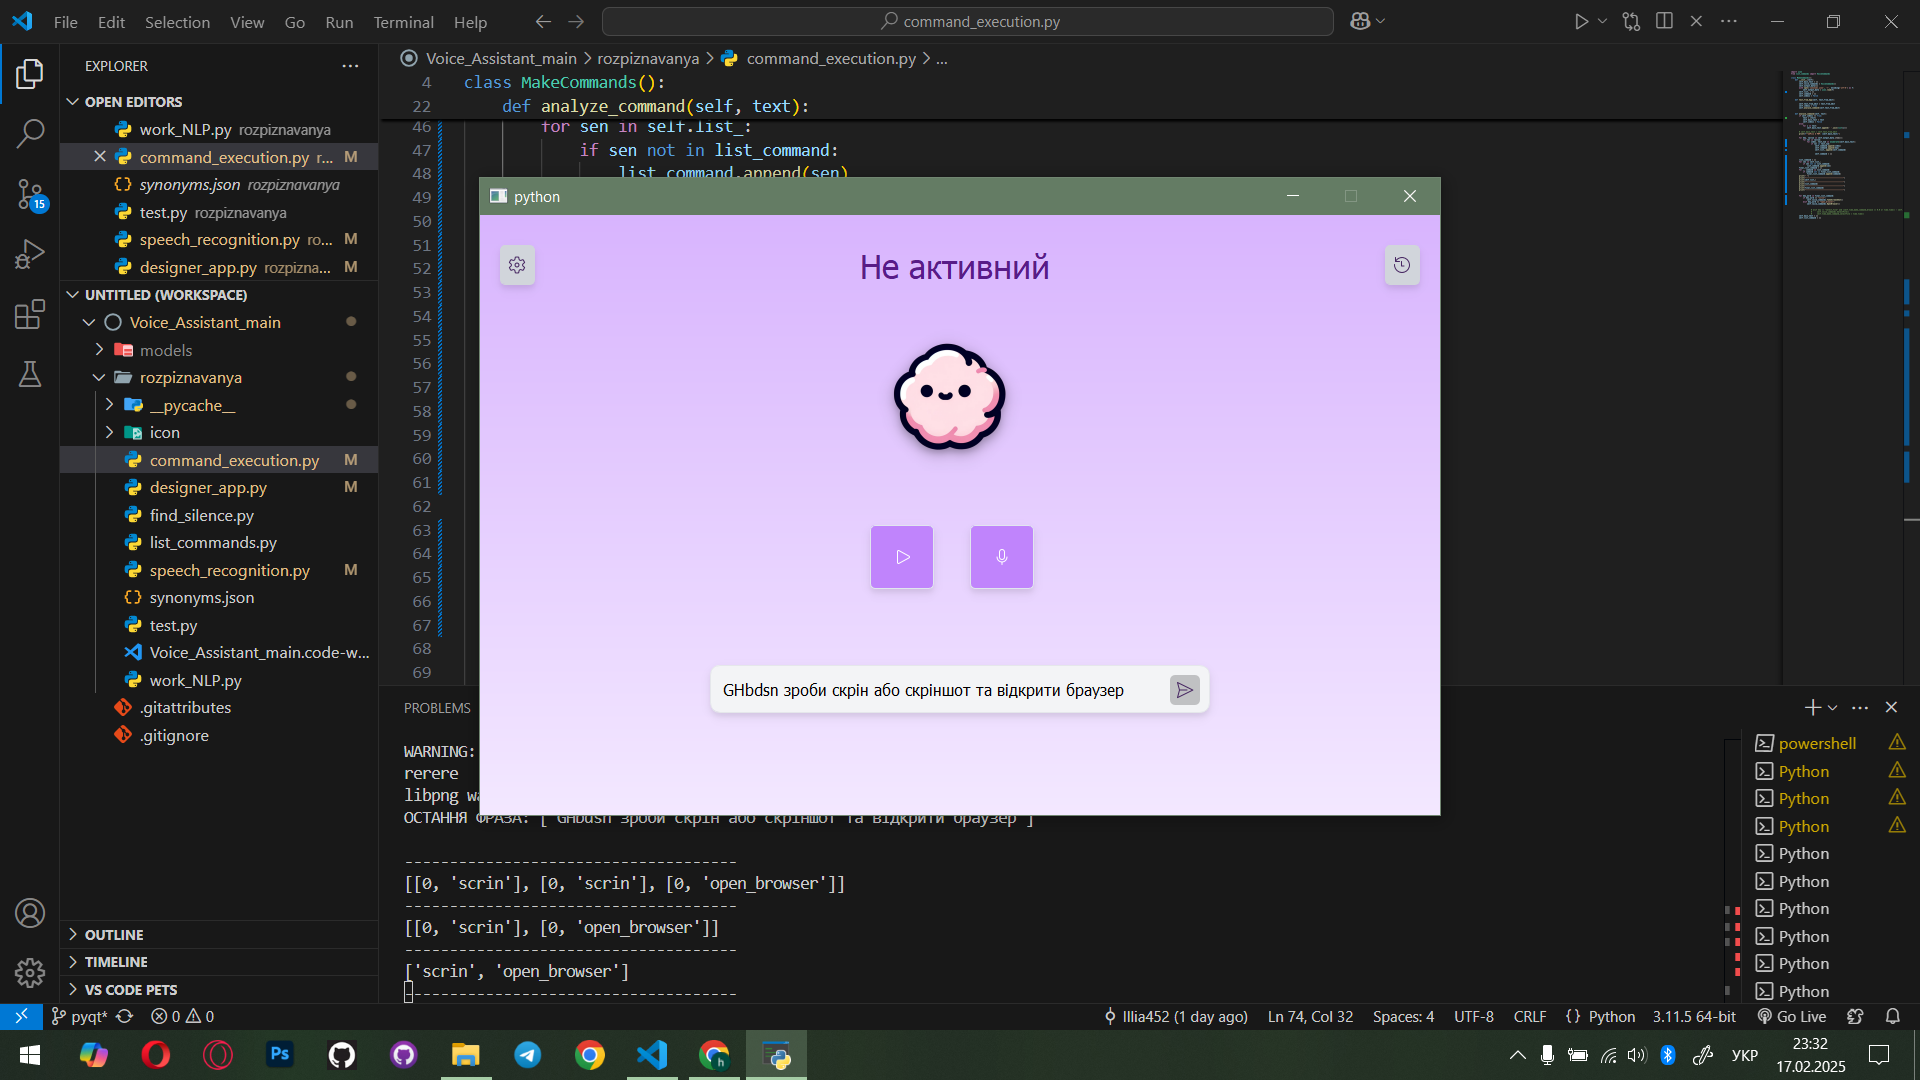
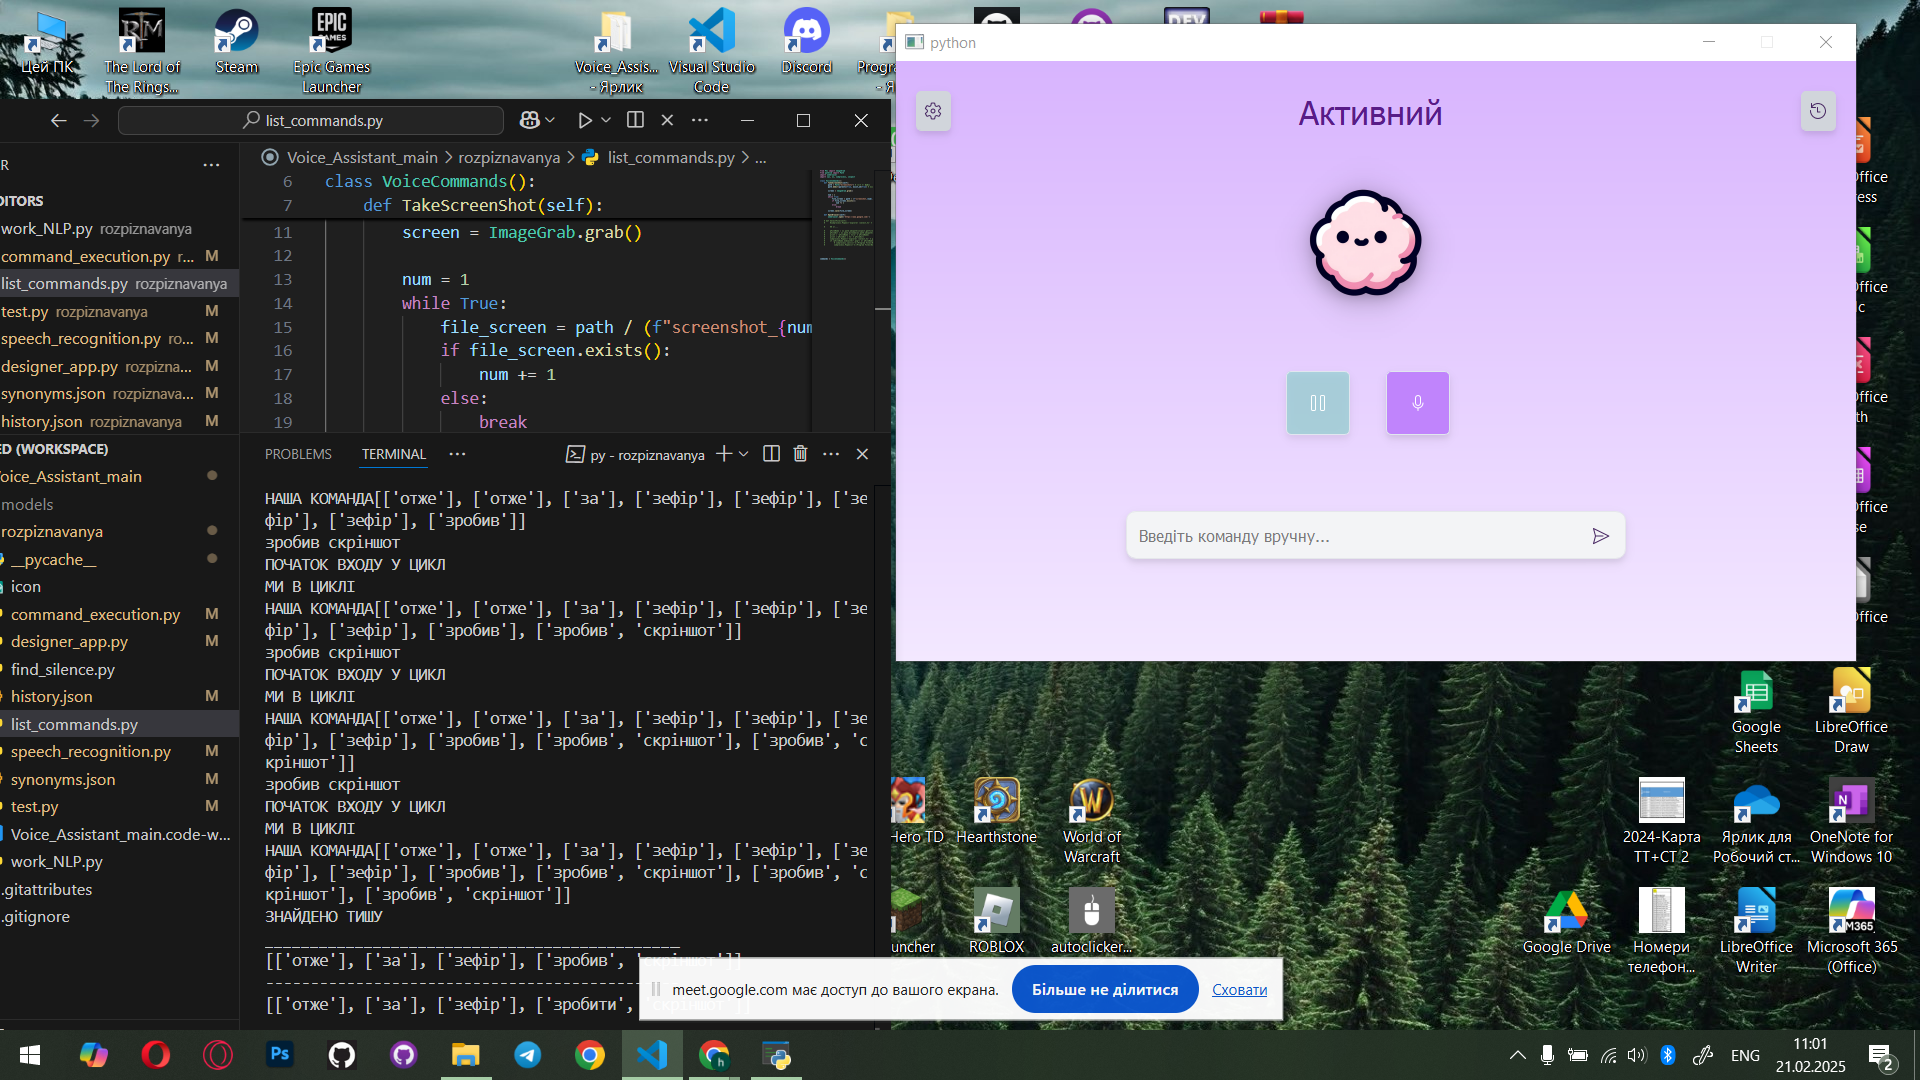
Added last working version

diff --git a/rozpiznavanya/designer_app.py b/rozpiznavanya/designer_app.py
@@ -12,15 +12,23 @@ from PyQt5 import QtCore, QtGui, QtWidgets
 import sys
 from PyQt5.QtGui import QColor, QFont
 from PyQt5.QtWidgets import QGraphicsDropShadowEffect
-from PyQt5.QtCore import Qt
+from PyQt5.QtCore import Qt, QTimer
 from PyQt5.QtSvg import QSvgWidget
 from PyQt5.QtGui import QPixmap
 import threading
+import json
+
 
 class Ui_MainWindow(QMainWindow):
     def __init__(self, speech_recognition):
         super().__init__()
         self.speech_recognition = speech_recognition
+        self.history_data = []
+        self.len_write_history = []
+        self.write_history = []
+        self.last_history_size = 0
+        with open('history.json', 'r', encoding='utf-8') as f:
+            self.history_data = json.load(f)
         # self.speech_recognition.textToDoCommand(text)
         self.setupUi()
 
@@ -177,7 +185,7 @@ class Ui_MainWindow(QMainWindow):
         self.image_label.setPixmap(pixmap)  # Встановлюємо зображення в QLabel
         self.image_label.setAlignment(Qt.AlignCenter)
         shadow_i = QGraphicsDropShadowEffect()
-        shadow_i.setBlurRadius(25)  # Розмиття
+        shadow_i.setBlurRadius(50)  # Розмиття
         shadow_i.setOffset(0, 4)  # Зміщення тіні (по X та Y)
         shadow_i.setColor(QColor(0, 0, 0, 100))  # Колір тіні (чорний з прозорістю)
         self.image_label.setGraphicsEffect(shadow_i)
@@ -308,7 +316,7 @@ class Ui_MainWindow(QMainWindow):
 
         # ВІКНО ІСТОРІЇ
         self.his_window = QtWidgets.QWidget(self.centralwidget)
-        self.his_window.setGeometry(QtCore.QRect(710, 120, 220, 450))
+        self.his_window.setGeometry(QtCore.QRect(685, 120, 245, 450))
         self.his_window # Виводимо віджет на передній план
         # self.his_window.raise_()
         self.his_window.setStyleSheet("""
@@ -334,22 +342,18 @@ class Ui_MainWindow(QMainWindow):
         self.text_his.setAlignment(Qt.AlignCenter)
 
         self.scroll_area = QtWidgets.QScrollArea(self.his_window)
-        self.scroll_area.setGeometry(10, 45, 200, 395)  
+        self.scroll_area.setGeometry(10, 45, 225, 395)  
         self.scroll_area.setWidgetResizable(True) 
 
         self.scroll_content = QtWidgets.QWidget()
         self.scroll_layout = QtWidgets.QVBoxLayout(self.scroll_content)  # Вертикальний Layout
 
-        # Додаємо багато елементів (імітація історії)
-        for i in range(20):
-            label = QtWidgets.QLabel(f"Історія {i+1}")
-            self.scroll_layout.addWidget(label)
+        
 
-        self.scroll_area.setWidget(self.scroll_content)
 
        
         
-    
+
 
 
 
@@ -418,7 +422,9 @@ class Ui_MainWindow(QMainWindow):
 
 
 
-
+        self.timer = QTimer(self)
+        self.timer.timeout.connect(self.check_history)  # Підключення функції до сигналу
+        self.timer.start(2000) 
 
 
     
@@ -437,9 +443,43 @@ class Ui_MainWindow(QMainWindow):
         # self.retranslateUi()
         # QtCore.QMetaObject.connectSlotsByName(self.MainWindow)
 
-    
+    def check_history(self):
 
+        with open('history.json', 'r', encoding='utf-8') as f:
+            self.history_data = json.load(f)
+        for key, vallue in self.history_data.items():
+            len_history_json = len(vallue)
 
+            self.len_write_history = len(self.write_history)
+
+            if len_history_json > self.len_write_history:
+
+                self.write_history = vallue
+        
+        
+
+                history_list = self.write_history[::-1]
+
+                for i in reversed(range(self.scroll_layout.count())): 
+                    self.scroll_layout.itemAt(i).widget().setParent(None)
+
+                for val in history_list:
+                    part_his_win = QtWidgets.QLabel()
+                    part_his_win.setStyleSheet("""
+                        QWidget {
+                            background-color: #d1d5db;
+                            border-radius: 10px;
+                            border: 1px solid #d1d5db;
+                        }
+                    """)
+                    label = QtWidgets.QLabel(f"Команда {val[0]}", part_his_win)
+                    label2 = QtWidgets.QLabel(f"Час {val[1]}", part_his_win)
+                    self.scroll_layout.addWidget(part_his_win)
+                    self.scroll_layout.addWidget(label)
+                    self.scroll_layout.addWidget(label2)
+
+                    self.scroll_area.setWidget(self.scroll_content)
+                    self.scroll_layout.update()
 
     def get_text_from_but_send(self):
         # Отримуємо текст з поля вводу
@@ -493,7 +533,6 @@ class Ui_MainWindow(QMainWindow):
         else:
             self.status_start = True
             self.speech_recognition.START_BUT = False
-            print("rerere")
             self.block.show()
 #             self.block.setStyleSheet("""
 #             QWidget {
@@ -562,6 +601,11 @@ class Ui_MainWindow(QMainWindow):
         self.is_on_but_micro = not self.is_on_but_micro
 
 
+        
+    def closeEvent(self, event):
+        self.speech_recognition.close_win = True
+
+        event.accept()  # Закриває вікно
 
 
 

diff --git a/rozpiznavanya/speech_recognition.py b/rozpiznavanya/speech_recognition.py
@@ -35,6 +35,7 @@ class SpeechRecognition():
 
         self.MIC_IS_OFF = False
         self.START_BUT = True
+        self.close_win = False
 
         self.work_assis = None
         # paInt16 - 16-бітний формат зберігання, frames_per_buffer=2048 - кількість фреймів що зчитуються за один раз        
@@ -64,7 +65,8 @@ class SpeechRecognition():
         self.found = False
         self.detect_silence = False
         self.list_silence = []
-        
+
+
         
     def get_text(self, text):
         self.make_command.text_from_App(text)
@@ -191,6 +193,9 @@ class SpeechRecognition():
 
     def print_text(self):
         while True:
+            if self.close_win == True:
+                print("cdcdcfvdtntybvdfcfgbgfdfghgfd")
+                break
             if self.MIC_IS_OFF:
                 continue
             if self.START_BUT == False:

diff --git a/rozpiznavanya/test.py b/rozpiznavanya/test.py
@@ -1,11 +1,11 @@
-import time
+import sys, os, subprocess, inspect
 
-loc_time = time.localtime()
-min = loc_time.tm_min
-hour = loc_time.tm_hour
-mon = loc_time.tm_mon
-year = loc_time.tm_year
 
-timmee = (f"{year}.{mon} - {hour}:{min}")
-
-print(timmee)
+pFileName = os.path.abspath(inspect.getfile(inspect.currentframe()))
+pFileDir = os.path.dirname(os.path.abspath(inspect.getfile(inspect.currentframe())))
+print ( 'pFileName = %s\n' % pFileName)
+print ('pFileDir = %s' % pFileDir)
+subprocess.Popen(r'explorer /select,%s' % pFileName)
+if (pFileName.endswith(".png") or pFileName.endswith(".py") or pFileName.endswith(".txt")):
+    # subprocess.call([r'C:\Program Files\Notepad++\notepad++.exe',  pFileName])
+    subprocess.Popen([r'C:\Program Files\Notepad++\notepad++.exe',  pFileName])

diff --git a/rozpiznavanya/command_execution.py b/rozpiznavanya/command_execution.py
@@ -47,6 +47,7 @@ class MakeCommands():
         with open('history.json', 'w', encoding='utf-8') as f:
             json.dump(self.history_data, f, ensure_ascii=False, indent=4)
         
+        
 
     def text_from_App(self, text_from_edit):
 
